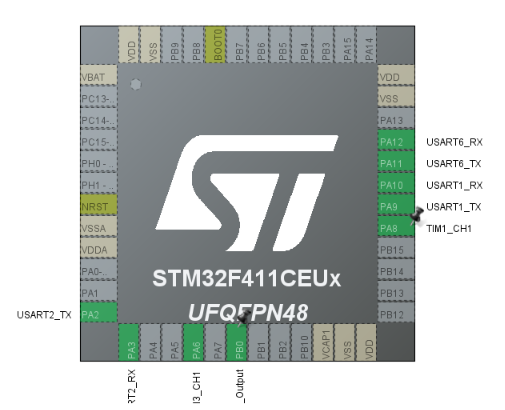
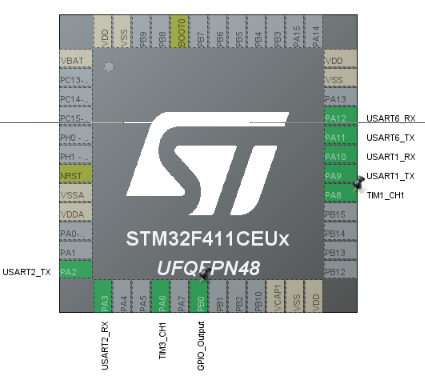
Update README to center pinout image and replace with new image file

Changed region(s): [[0.0, 0.0293, 0.9788, 0.9947]]

diff --git a/README.md b/README.md
@@ -26,7 +26,9 @@ The project uses STM32Cube HAL with PlatformIO and is uploaded/debugged through 
 
 ## Pin assignment
 
-![STM32F411CEU6 robot arm controller pinout](docs/stm32pinout.png)
+<p align="center">
+  <img src="docs/stm32pinout.png" alt="STM32F411CEU6 robot arm controller pinout">
+</p>
 
 | Function | STM32 peripheral | Pin | Direction | Notes |
 |---|---|---:|---|---|
